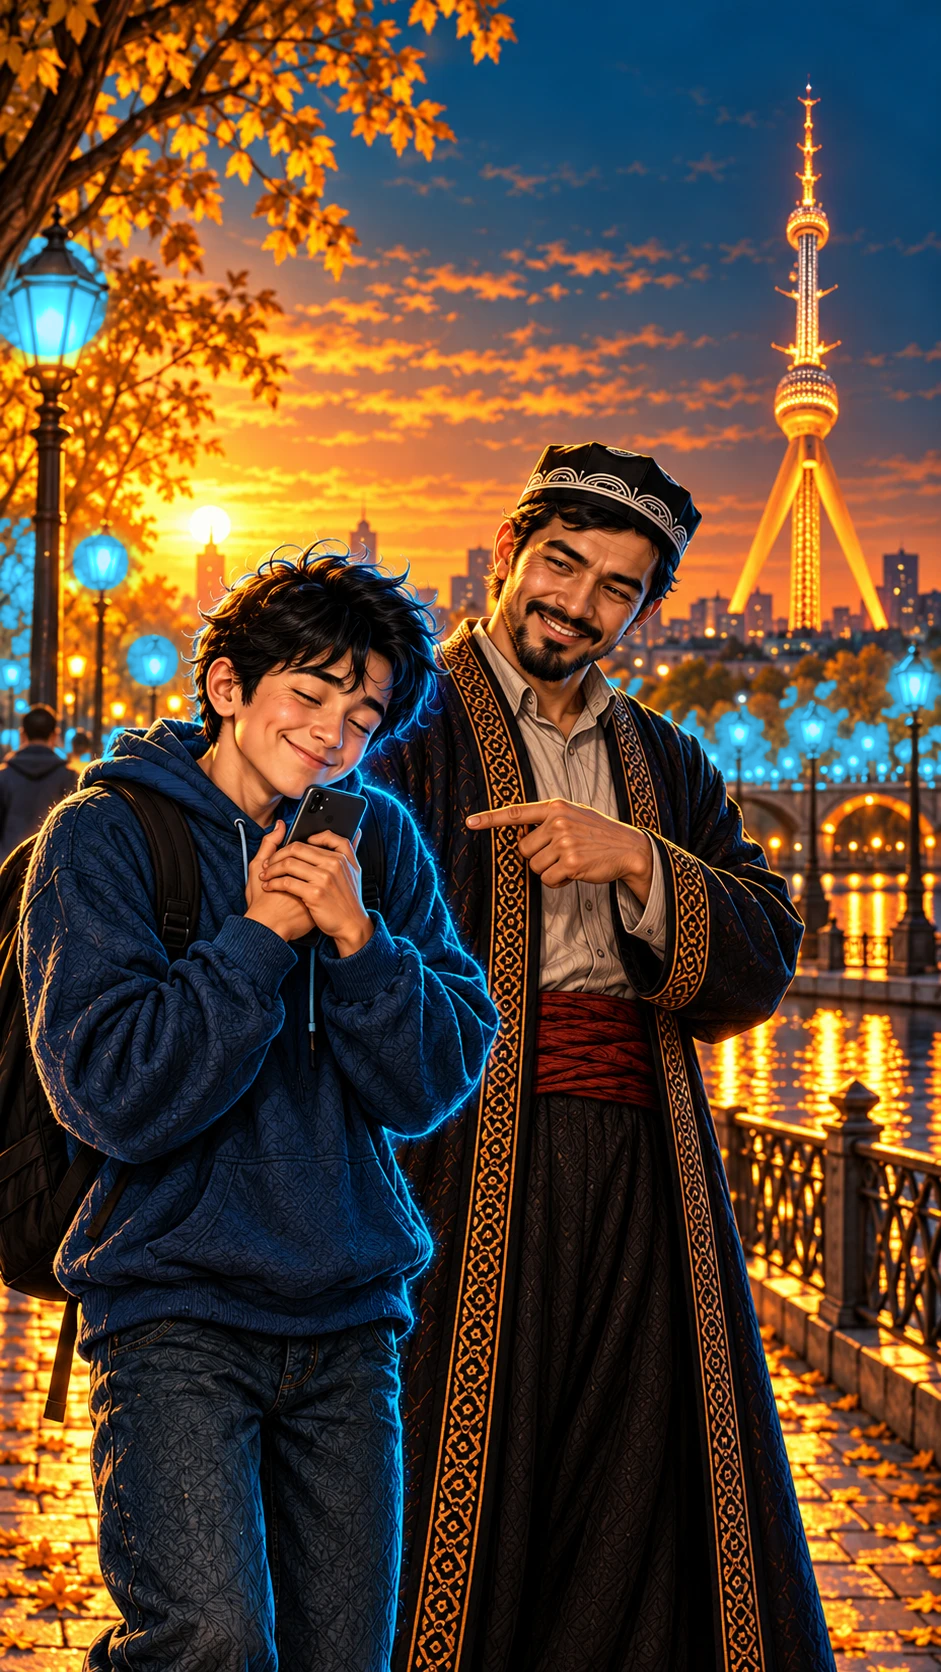
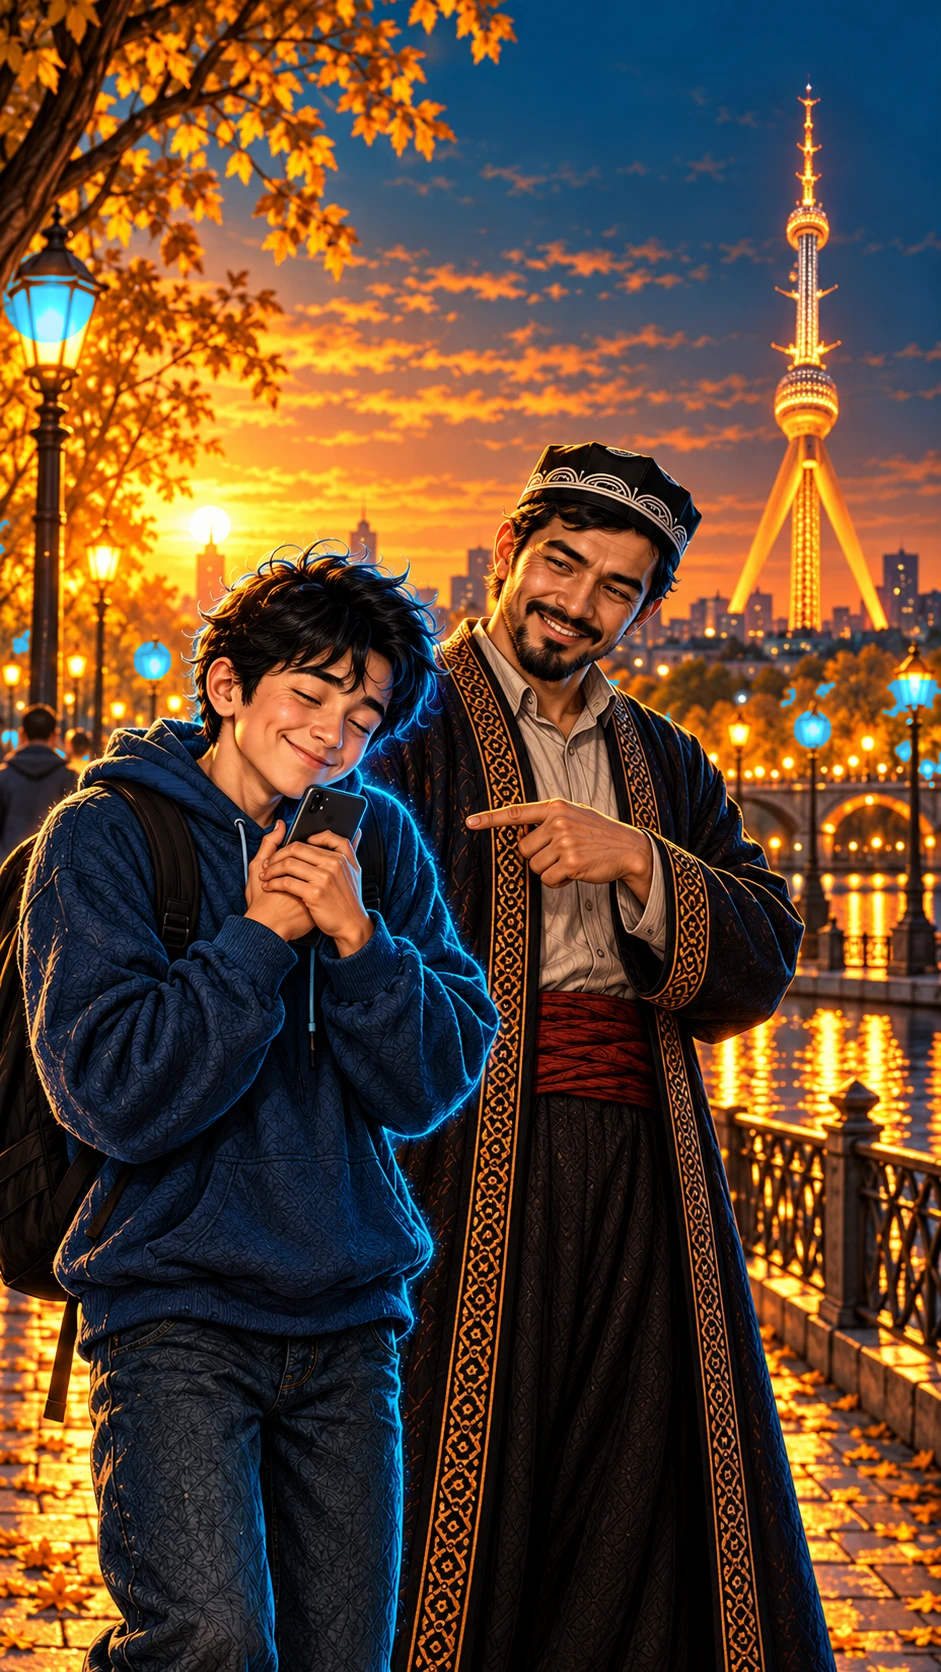
eskirish: fonuslar navbatma-navbat, faqat ichi ko'k neon (egasi: shuvab tashlama)
Claude-Session: https://claude.ai/code/session_01RL3x4tL7VqVmiGwddJSE5k

diff --git a/video/eskirish/fonus.py b/video/eskirish/fonus.py
@@ -24,24 +24,27 @@ for k in range(1, n):
     if not (a.amin <= ar <= a.amax): continue
     if ar / (w * h) < 0.3 or not (0.3 < h / max(w, 1) < 4): continue
     cand.append(k)
+# Egasi (2026-10-28, 2-urinish): «bittasini qil, bittasini qilma, faqat fonus ichi bo'lsin, shuvab tashlama»:
+# fonuslar navbatma-navbat (1-si bo'yaladi, 2-si yo'q ...), faqat fonus ichidagi yorug' shisha, atrofga nur yoyilmaydi.
 keep = np.zeros((H, W), np.float32); sheet = img.copy()
-if a.lamp:
-    cand = cand if a.roi else []
-    V = hsv[..., 2].astype(np.float32) / 255
-    for q in a.lamp:
-        cx, cy, r = map(int, q.split(","))
-        c = np.zeros((H, W), np.float32); cv2.circle(c, (cx, cy), r, 1, -1)
-        keep = np.maximum(keep, c * np.clip((V - 0.55) / 0.3, 0, 1))
-        cv2.circle(sheet, (cx, cy), r, (0, 255, 0), 2)
+V = hsv[..., 2].astype(np.float32) / 255
+if a.lamp and not a.roi: cand = []
+for i, q in enumerate(a.lamp):                       # qo'lda berilganlar: tartib bo'yicha 0, 2, 4 ... bo'yaladi
+    cx, cy, r = map(int, q.split(","))
+    use = i % 2 == 0
+    cv2.circle(sheet, (cx, cy), r, (0, 255, 0) if use else (0, 0, 255), 2)
+    if use:
+        c = np.zeros((H, W), np.float32); cv2.circle(c, (cx, cy), int(r * 0.8), 1, -1)
+        keep = np.maximum(keep, c * np.clip((V - 0.62) / 0.25, 0, 1))
+cand = sorted(cand, key=lambda k: (st[k][0], st[k][1]))   # uzoqdagilar chapdan o'ngga, navbatma-navbat
 for i, k in enumerate(cand, 1):
     x, y, w, h, ar = st[k]
-    use = (i in only) if only else (i not in skip)
+    use = (i in only) if only else (i not in skip and i % 2 == 1)
     cv2.rectangle(sheet, (x - 3, y - 3), (x + w + 3, y + h + 3), (0, 255, 0) if use else (0, 0, 255), 2)
-    cv2.putText(sheet, str(i), (x + w + 4, y + 12), 0, 0.5, (0, 255, 255), 2)
-    if use: keep[lab == k] = 1
-core = cv2.GaussianBlur(cv2.dilate(keep, np.ones((5, 5), np.uint8)), (7, 7), 0)
-halo = cv2.GaussianBlur(keep, (0, 0), 10); halo = np.clip(halo / max(halo.max(), 1e-6) * 1.8, 0, 1) * 0.55
-w = np.maximum(core, halo)[..., None]
+    if use: keep[lab == k] = np.clip((V[lab == k] - 0.62) / 0.25, 0, 1)
+core = cv2.GaussianBlur(keep, (3, 3), 0)
+halo = cv2.GaussianBlur(keep, (0, 0), 3) * 0.25
+w = np.clip(np.maximum(core, halo), 0, 1)[..., None]
 L = f.mean(2, keepdims=True) / 255
 tint = np.clip(np.array([255., 200., 70.]) * np.power(L, 0.6) * 1.35, 0, 255)
 white = np.clip((L - 0.9) / 0.1, 0, 1) * core[..., None]

diff --git a/video/eskirish/README.md b/video/eskirish/README.md
@@ -24,7 +24,7 @@
 | 15 | `img/s15.png` | ✅ | Usta telefonni ko'rsatadi: bo'sh chat pufakchalari + yashil batareya (tekshirilgandan keyin — mos); qo'li Diyor yelkasida; Diyor bosh barmog'ini ko'taradi, jilmayadi. Diyor sochi to'lqinliroq, moviy nuri yo'q (kichik farq). Yozuv yo'q. Tepada osmon — @sahiychishopbot shu yerga |
 | 12 | `img/s12.png` | ✅ | Hazil: Diyor telefonni ko'kragiga bosib, ko'zlarini yumib jilmayadi; Usta kulib barmog'i bilan ko'rsatadi. Yuzlar namunaga mos, Diyor sochi qora, ingichka moviy nur bor; qo'llar to'g'ri; teleminora namunadek; yozuv yo'q |
 | 14 | `img/s14.png` | ✅ | Usta yaqin plan, kameraga dono va iliq qaraydi; yuz 13-rasm va namunaga mos; orqada teleminora va kanal; yozuv yo'q |
-- Fonuslar (egasi, 2026-10-28): ko'cha fonuslari kodda ko'k neonga bo'yalgan (`fonus.py`, `fonus_hammasi.sh`; asl rasmlar `img/asl/`). Veo va rasm promptlarida ham «street lamps glow cool neon blue».
+- Fonuslar (egasi, 2026-10-28, 2-urinish: «bittasini qil, bittasini qilma, faqat ichi»): ko'cha fonuslari navbatma-navbat, faqat shishasi ko'k neon, atrofga nur yoyilmaydi (`fonus.py`, `fonus_hammasi.sh`; asl rasmlar `img/asl/`). Veo va rasm promptlarida ham «street lamps glow cool neon blue».
 
 ## Kliplar
 | # | Fayl | Holat | Olinadigan qism | Izoh |
